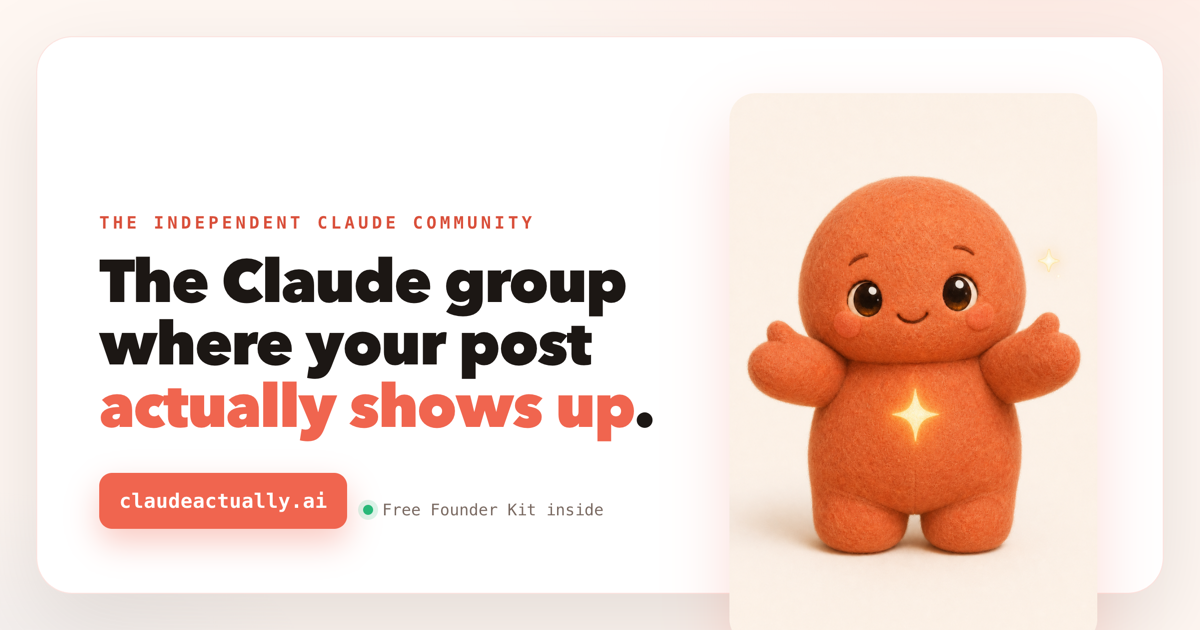
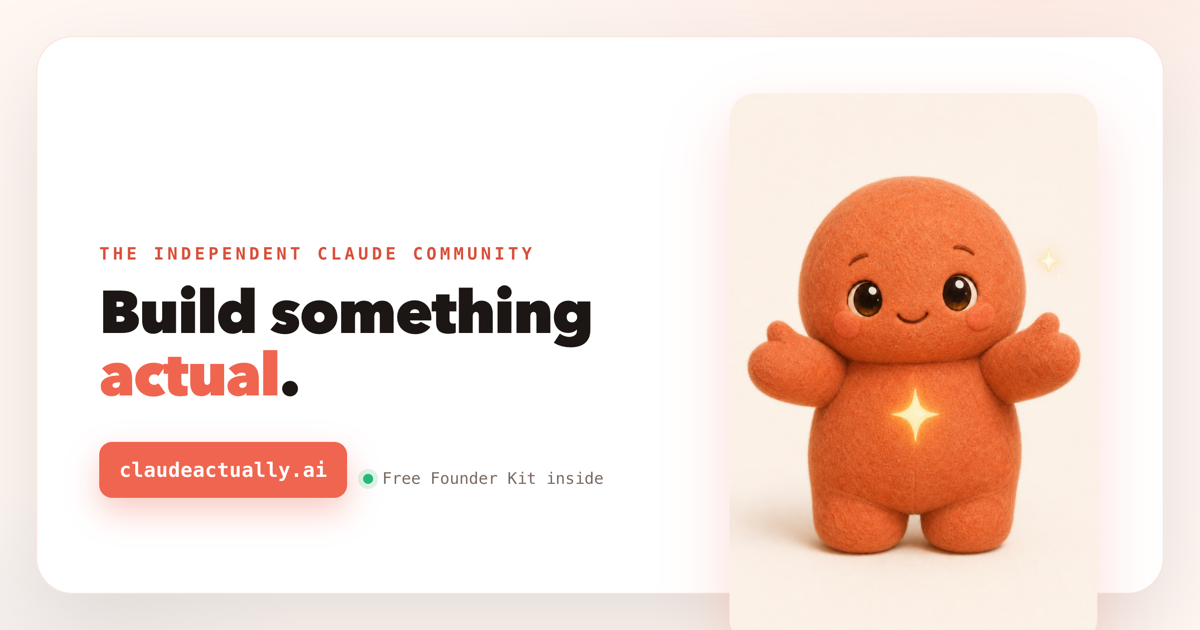
Rebrand site to Build, Actually; retire grievance positioning
Replace the 'group where your post actually shows up' grievance framing
across all pages with build-forward 'Build something actual.' positioning.

- New sitewide tagline + social meta + regenerated OG card
- Homepage hero/why rewritten around building real things with AI
- About 'Why this exists' now tells the real Founder Kit origin story
- Community + Terms promises reframed to give-it-all-away
- og-card generator + inject_og_tags updated to match

Changed region(s): [[0.0617, 0.3921, 0.555, 0.8746], [0.0925, 0.3317, 0.4317, 0.3619]]

diff --git a/about.html b/about.html
@@ -4,7 +4,7 @@
 <meta charset="UTF-8">
 <meta name="viewport" content="width=device-width, initial-scale=1.0">
 <title>About · Claude, Actually</title>
-<meta name="description" content="The story behind Claude, Actually: the independent Claude and AI community where your post actually shows up. Why it exists, why we say out loud that an AI helps run it, and what we stand for.">
+<meta name="description" content="The story behind Claude, Actually: the independent community where regular people build real things with AI. Why it exists, why we say out loud that an AI helps run it, and what we stand for.">
 <link rel="icon" type="image/png" href="assets/favicon.png">
 <meta property="og:title" content="About Claude, Actually: an honest little corner of the internet">
 <meta property="og:description" content="The independent community we wished existed, for people who use, learn, and geek out about Claude and AI. Here is why we built it, and what we stand for.">
@@ -19,10 +19,10 @@
   <meta property="og:image" content="https://claudeactually.ai/assets/og-card.png">
   <meta property="og:image:width" content="1200">
   <meta property="og:image:height" content="630">
-  <meta property="og:image:alt" content="Claude, Actually, the Claude group where your post actually shows up">
+  <meta property="og:image:alt" content="Claude, Actually, build something actual">
   <meta name="twitter:card" content="summary_large_image">
   <meta name="twitter:title" content="About · Claude, Actually">
-  <meta name="twitter:description" content="The story behind Claude, Actually: the independent Claude and AI community where your post actually shows up. Why it exists, why we say out loud that an AI helps run it, and what we stand for.">
+  <meta name="twitter:description" content="The story behind Claude, Actually: the independent community where regular people build real things with AI. Why it exists, why we say out loud that an AI helps run it, and what we stand for.">
   <meta name="twitter:image" content="https://claudeactually.ai/assets/og-card.png">
   <meta property="fb:app_id" content="1699619567919904">
 <!-- Meta Pixel Code -->
@@ -66,7 +66,7 @@ src="https://www.facebook.com/tr?id=2633650787050149&ev=PageView&noscript=1"
     <img src="assets/logo.png" alt="Claude, Actually">
     <div>
       <div class="ht">Claude, Actually</div>
-      <div class="hs">the Claude group where your post actually shows up</div>
+      <div class="hs">build something actual</div>
     </div>
   </header>
 
@@ -74,7 +74,7 @@ src="https://www.facebook.com/tr?id=2633650787050149&ev=PageView&noscript=1"
     <div>
       <div class="kicker">About</div>
       <h1>An honest little corner of the <span class="u">internet</span>.</h1>
-      <p class="lede">Claude, Actually is the independent community we wished existed, for people who use, learn, and geek out about Claude and AI.</p>
+      <p class="lede">Claude, Actually is the independent community we wished existed, for people who want to build real things with AI.</p>
       <div class="free"><span class="dot"></span> Human-hosted, AI-assisted, out in the open. No catch.</div>
     </div>
     <img class="plush" src="assets/mascot.png" alt="The coral plush co-pilot, our AI sidekick made huggable">
@@ -82,12 +82,12 @@ src="https://www.facebook.com/tr?id=2633650787050149&ev=PageView&noscript=1"
 
   <section class="sec">
     <h2>Why this exists</h2>
-    <p class="sub">The honest, slightly annoyed origin story. It is the whole reason we built this.</p>
+    <p class="sub">The real origin story. It is the whole reason we built this.</p>
     <div class="prose-card">
       <div class="prose">
-        <p>The two big Claude groups bury people. You write a real question, a good one, and it just disappears into an approval void. Nobody tells you why. The only posts that survive are the loud ones, the takes and the hot drama, while the quiet "hey, how do I actually do this" question never sees daylight.</p>
-        <p>Here is the part that finally did it. Danny's most useful post went viral. The admins responded by quietly burying everything he posted next. Not a warning, not a reason, just gone. If that is what happens to the helpful stuff, the room is broken.</p>
-        <p>So we built the opposite. A place where a normal person asks a normal question and gets a real, useful answer, fast, in public, where it cannot be silently deleted. That grievance is not a marketing angle we dreamed up later. It is the entire reason this brand is allowed to exist, and it is why "we do not bury real people" is the one rule we will never break.</p>
+        <p>A few months back, my daughter was getting ready to graduate high school, headed to college in the fall. I was proud. Then one day it hit me that for all her advantages, she'd never really used a computer beyond a school Chromebook, and to her, AI was just a homework chatbot. She was about to step into a world built on tools she'd never actually used.</p>
+        <p>So I built her a curriculum: how to use a real machine, the agentic AI tools, and how to start and run something real. Her younger brother jumped in. Then my wife. Pretty soon the whole family was building at the kitchen table, learning things most adults never get to.</p>
+        <p>That became the Founder Kit, and we're giving the whole thing away. Every kid should have this. Every grown-up who ever thought "I'd start something if I knew how" should too. This is the room Claude and I built to hand it to you. Pull up a chair and build something actual.</p>
       </div>
     </div>
   </section>
@@ -134,8 +134,8 @@ src="https://www.facebook.com/tr?id=2633650787050149&ev=PageView&noscript=1"
 
       <div class="card">
         <span class="tag">03</span>
-        <div class="t">We don't bury people</div>
-        <div class="d">Your post shows up. Disagreement stays visible, fair criticism stays visible. We hide spam and scams and nothing else. We will never quietly delete a real person's genuine question, ever.</div>
+        <div class="t">Give it all away</div>
+        <div class="d">The whole method, the full curriculum, the machine behind it, free. Hoarding the good part is what the gatekeepers do. Every time we give it away, we get sharper at it.</div>
       </div>
 
     </div>
@@ -149,10 +149,10 @@ src="https://www.facebook.com/tr?id=2633650787050149&ev=PageView&noscript=1"
   <a class="cta" href="community.html">
     <span class="arrow">&#9656;</span>
     <div class="big">Come hang out with us</div>
-    <div class="small">We're a little lonely in our group, honestly. Ask a real question and watch it actually show up.</div>
+    <div class="small">We're a little lonely in our group, honestly. Bring a question or a build and pull up a chair.</div>
   </a>
 
-  <p class="lede" style="margin-top:30px;max-width:60ch;color:#3a302b;">That's us. A small, honest place built by people who got tired of being buried, with a friendly plush co-pilot helping out in plain sight. Pull up a chair.</p>
+  <p class="lede" style="margin-top:30px;max-width:60ch;color:#3a302b;">That's us. A small, honest place where regular people build real things with AI, with a friendly plush co-pilot helping out in plain sight. Pull up a chair.</p>
 
 </div>
 

diff --git a/index.html b/index.html
@@ -3,21 +3,21 @@
 <head>
 <meta charset="UTF-8">
 <meta name="viewport" content="width=device-width, initial-scale=1.0">
-<title>Claude, Actually · the Claude group where your post actually shows up</title>
-<meta name="description" content="The independent community for people who use, learn, and geek out about Claude and AI. Ask a real question, get a real answer, in public, where it can't be quietly deleted.">
+<title>Claude, Actually · build something actual</title>
+<meta name="description" content="The independent community for people who want to build real, life-changing things with AI. Free guides, a build-along game, and a friendly AI co-pilot in the mix.">
 <link rel="icon" type="image/png" href="assets/favicon.png">
-<meta property="og:title" content="Claude, Actually: the Claude group where your post actually shows up">
-<meta property="og:description" content="The independent Claude and AI community. Real questions, real answers, in public. Grab the free Founder Kit and come hang out with us.">
+<meta property="og:title" content="Claude, Actually: build something actual">
+<meta property="og:description" content="The independent community where regular people build real things with AI. Grab the free Founder Kit and come build something actual.">
 <meta property="og:type" content="website">
 <link rel="stylesheet" href="assets/site.css">
   <meta property="og:url" content="https://claudeactually.ai/">
   <meta property="og:image" content="https://claudeactually.ai/assets/og-card.png">
   <meta property="og:image:width" content="1200">
   <meta property="og:image:height" content="630">
-  <meta property="og:image:alt" content="Claude, Actually, the Claude group where your post actually shows up">
+  <meta property="og:image:alt" content="Claude, Actually, build something actual">
   <meta name="twitter:card" content="summary_large_image">
-  <meta name="twitter:title" content="Claude, Actually · the Claude group where your post actually shows up">
-  <meta name="twitter:description" content="The independent community for people who use, learn, and geek out about Claude and AI. Ask a real question, get a real answer, in public, where it can't be quietly deleted.">
+  <meta name="twitter:title" content="Claude, Actually · build something actual">
+  <meta name="twitter:description" content="The independent community for people who want to build real, life-changing things with AI. Free guides, a build-along game, and a friendly AI co-pilot in the mix.">
   <meta name="twitter:image" content="https://claudeactually.ai/assets/og-card.png">
   <meta property="fb:app_id" content="1699619567919904">
 <!-- Meta Pixel Code -->
@@ -61,15 +61,15 @@ src="https://www.facebook.com/tr?id=2633650787050149&ev=PageView&noscript=1"
     <img src="assets/logo.png" alt="Claude, Actually">
     <div>
       <div class="ht">Claude, Actually</div>
-      <div class="hs">the Claude group where your post actually shows up</div>
+      <div class="hs">build something actual</div>
     </div>
   </header>
 
   <main class="hero split">
     <div>
       <div class="kicker">The independent Claude community</div>
-      <h1>The Claude group where your post <span class="u">actually shows up</span>.</h1>
-      <p class="lede">We're the independent community for people who use, learn, and geek out about Claude and AI. You ask a real question, you get a real, useful answer, fast, in public, where it can't be quietly deleted.</p>
+      <h1>Build something <span class="u">actual</span>.</h1>
+      <p class="lede">We're the independent community for people who want to build real, life-changing things with AI. Free guides, a build-along game, honest help, and a friendly AI co-pilot in the mix.</p>
 
       <div class="cta-row">
         <a class="cta" href="founder-kit.html">
@@ -89,8 +89,8 @@ src="https://www.facebook.com/tr?id=2633650787050149&ev=PageView&noscript=1"
 
   <section class="sec">
     <h2>Why we built this</h2>
-    <p>The two big Claude groups bury people. You write a real question, a normal one, and it vanishes into an approval void. The only posts that ever survive are the loud ones. After a while you stop asking, because what's the point if it never sees daylight.</p>
-    <p>So we built the opposite. A place where a normal person asks a normal question and gets a real answer, in public, where it can't be silently deleted. Nobody quietly makes your post disappear. We don't bury real people. That's the one rule we'll never break.</p>
+    <p>Most people use AI as a chatbot. Ask a question, get an answer, move on. The people who actually get somewhere use it to build: a business, a website, a real thing with their name on it. That second skill is the one almost nobody is teaching.</p>
+    <p>So we built the place that teaches it, and we give it all away. A full curriculum that takes a complete beginner from a blank page to a launched business, a community to build alongside, and a friendly AI co-pilot helping in the open. Free, no catch. Come build something actual.</p>
   </section>
 
   <section class="sec">

diff --git a/community.html b/community.html
@@ -4,20 +4,20 @@
 <meta charset="UTF-8">
 <meta name="viewport" content="width=device-width, initial-scale=1.0">
 <title>Community · Claude, Actually</title>
-<meta name="description" content="Come hang out. An independent Claude and AI community with two rooms, a Facebook Page and a Group, both actually open. Real questions get real answers, and we never bury real people.">
+<meta name="description" content="Come hang out. An independent Claude and AI community with two rooms, a Facebook Page and a Group, where regular people build real things with AI. Honest help and a friendly AI co-pilot in the mix.">
 <link rel="icon" type="image/png" href="assets/favicon.png">
-<meta property="og:title" content="Two rooms, both actually open · Claude, Actually">
-<meta property="og:description" content="An independent Claude and AI community where your question gets a real answer. Join the Facebook Page and the Group. We hide spam, and that is the only thing we hide.">
+<meta property="og:title" content="Two rooms, come on in · Claude, Actually">
+<meta property="og:description" content="An independent Claude and AI community where regular people build real things with AI. Join the Facebook Page and the Group. Honest help, everything free.">
 <meta property="og:type" content="website">
 <link rel="stylesheet" href="assets/site.css">
   <meta property="og:url" content="https://claudeactually.ai/community.html">
   <meta property="og:image" content="https://claudeactually.ai/assets/og-card.png">
   <meta property="og:image:width" content="1200">
   <meta property="og:image:height" content="630">
-  <meta property="og:image:alt" content="Claude, Actually, the Claude group where your post actually shows up">
+  <meta property="og:image:alt" content="Claude, Actually, build something actual">
   <meta name="twitter:card" content="summary_large_image">
   <meta name="twitter:title" content="Community · Claude, Actually">
-  <meta name="twitter:description" content="Come hang out. An independent Claude and AI community with two rooms, a Facebook Page and a Group, both actually open. Real questions get real answers, and we never bury real people.">
+  <meta name="twitter:description" content="Come hang out. An independent Claude and AI community with two rooms, a Facebook Page and a Group, where regular people build real things with AI. Honest help and a friendly AI co-pilot in the mix.">
   <meta name="twitter:image" content="https://claudeactually.ai/assets/og-card.png">
   <meta property="fb:app_id" content="1699619567919904">
 <!-- Meta Pixel Code -->
@@ -61,15 +61,15 @@ src="https://www.facebook.com/tr?id=2633650787050149&ev=PageView&noscript=1"
     <img src="assets/logo.png" alt="Claude, Actually">
     <div>
       <div class="ht">Claude, Actually</div>
-      <div class="hs">the Claude group where your post actually shows up</div>
+      <div class="hs">build something actual</div>
     </div>
   </header>
 
   <main class="hero split">
     <div>
       <div class="kicker">Come hang out</div>
-      <h1>Two rooms, both <span class="u">actually open</span>.</h1>
-      <p class="lede">We're an independent Claude and AI community, and honestly we're a little lonely in here. If you use this stuff and want a place where your question gets a real answer, this is it. <b>Pull up a chair.</b></p>
+      <h1>Two rooms, <span class="u">come on in</span>.</h1>
+      <p class="lede">We're an independent Claude and AI community, and honestly we're a little lonely in here. If you want a place to learn this stuff and build with it, this is it. <b>Pull up a chair.</b></p>
       <div class="free"><span class="dot"></span> Free to join. A human hosts, an AI co-pilot helps answer.</div>
     </div>
     <img class="plush" src="assets/mascot.png" alt="The coral plush co-pilot, waving hello">
@@ -112,7 +112,7 @@ src="https://www.facebook.com/tr?id=2633650787050149&ev=PageView&noscript=1"
       <div class="card">
         <span class="tag">The Group</span>
         <div class="t">The living room</div>
-        <div class="d">This is where you post. Your own question, your half-finished project, the error message that's been beating you all week. People actually answer here, and so do we. It's smaller, warmer, and built for back-and-forth.</div>
+        <div class="d">This is where you post. Your own question, your half-finished project, the error message that's been beating you all week. People answer here, and so do we. It's smaller, warmer, and built for back-and-forth.</div>
       </div>
 
     </div>
@@ -120,7 +120,7 @@ src="https://www.facebook.com/tr?id=2633650787050149&ev=PageView&noscript=1"
 
   <div class="note">
     <div class="t">Our one promise</div>
-    <p>The big groups bury real people. A genuine question vanishes into an approval void and never comes back. We will never do that. We hide obvious spam and scams, and that is the only thing we hide. Your real question, and even a fair criticism, stays visible and gets an answer. We don't bury real people.</p>
+    <p>Everything here is free, and it stays free. The full method, the curriculum, the machine behind it. No upsell, no catch, no good part held back for a paid tier. Bring a real question or a half-built project and you'll get real help.</p>
   </div>
 
   <section class="sec">

diff --git a/meta-ads.html b/meta-ads.html
@@ -14,7 +14,7 @@
   <meta property="og:image" content="https://claudeactually.ai/assets/og-card.png">
   <meta property="og:image:width" content="1200">
   <meta property="og:image:height" content="630">
-  <meta property="og:image:alt" content="Claude, Actually, the Claude group where your post actually shows up">
+  <meta property="og:image:alt" content="Claude, Actually, build something actual">
   <meta name="twitter:card" content="summary_large_image">
   <meta name="twitter:title" content="Meta Ads, Actually · The Controlled-Test Playbook">
   <meta name="twitter:description" content="The method I actually use to run Meta ads on real money: a controlled test with a broad control, not trust-the-algorithm. Free playbook from Claude, Actually.">
@@ -61,7 +61,7 @@ src="https://www.facebook.com/tr?id=2633650787050149&ev=PageView&noscript=1"
     <img src="assets/logo.png" alt="Claude, Actually">
     <div>
       <div class="ht">Claude, Actually</div>
-      <div class="hs">the Claude group where your post actually shows up</div>
+      <div class="hs">build something actual</div>
     </div>
   </header>
 
@@ -189,7 +189,7 @@ src="https://www.facebook.com/tr?id=2633650787050149&ev=PageView&noscript=1"
 
   <div class="note">
     <div class="t">Why this is free</div>
-    <p>A lot of these groups got rough: spam, bad info, and people selling you what should be free. We wanted the opposite. A place to geek out about AI and ads, give away everything we figure out, and get sharper together. If you are the kind of person who actually runs the test, this is your room. Come build in the open with us.</p>
+    <p>This is a place to geek out about AI and ads, give away everything we figure out, and get sharper together. We show the whole method and the machine behind it, free, because hoarding the good part is what the spammers and gurus do. If you are the kind of person who actually runs the test, this is your room. Come build in the open with us.</p>
   </div>
 
 </div>

diff --git a/terms.html b/terms.html
@@ -24,7 +24,7 @@
   <meta property="og:image" content="https://claudeactually.ai/assets/og-card.png">
   <meta property="og:image:width" content="1200">
   <meta property="og:image:height" content="630">
-  <meta property="og:image:alt" content="Claude, Actually, the Claude group where your post actually shows up">
+  <meta property="og:image:alt" content="Claude, Actually, build something actual">
   <meta name="twitter:card" content="summary_large_image">
   <meta name="twitter:title" content="Terms · Claude, Actually">
   <meta name="twitter:description" content="The short, honest terms of use for Claude, Actually. The free stuff is free, it's information not advice, and we're independent. Plain words, no fine print tricks.">
@@ -71,7 +71,7 @@ src="https://www.facebook.com/tr?id=2633650787050149&ev=PageView&noscript=1"
     <img src="assets/logo.png" alt="Claude, Actually">
     <div>
       <div class="ht">Claude, Actually</div>
-      <div class="hs">the Claude group where your post actually shows up</div>
+      <div class="hs">build something actual</div>
     </div>
   </header>
 
@@ -95,7 +95,7 @@ src="https://www.facebook.com/tr?id=2633650787050149&ev=PageView&noscript=1"
     <p>We are not Anthropic, and we are not affiliated with them. We never speak for Anthropic on policy, pricing, or anything official. For an authoritative answer, we'll point you to their real channels. Independence is the whole point: it's what lets us be honest about the models, good and bad.</p>
 
     <h2>Community ground rules</h2>
-    <p>Be a real person, be kind, and don't spam or scam anyone. That's most of it. We hide obvious spam and scams, and that's the only thing we hide. We don't bury real people, and we don't bury fair criticism. That rule is the reason this community exists, so we mean it.</p>
+    <p>Be a real person, be kind, and don't spam or scam anyone. That's most of it. We hide obvious spam and scams, and that's the only thing we hide. Real questions and fair criticism always stay up. We mean it.</p>
 
     <h2>No guarantees</h2>
     <p>We work hard to keep everything accurate and online, but we can't promise it's perfect or always available. Things break, links rot, and we're a small operation. Use it as is, and if you spot something wrong, tell us so we can fix it.</p>

diff --git a/founder-kit.html b/founder-kit.html
@@ -14,7 +14,7 @@
   <meta property="og:image" content="https://claudeactually.ai/assets/og-card.png">
   <meta property="og:image:width" content="1200">
   <meta property="og:image:height" content="630">
-  <meta property="og:image:alt" content="Claude, Actually, the Claude group where your post actually shows up">
+  <meta property="og:image:alt" content="Claude, Actually, build something actual">
   <meta name="twitter:card" content="summary_large_image">
   <meta name="twitter:title" content="The Founder Kit · Claude, Actually">
   <meta name="twitter:description" content="A free curriculum that teaches anyone to start a real business with AI and a laptop. Five guides plus an interactive quest. A Claude, Actually giveaway.">
@@ -61,7 +61,7 @@ src="https://www.facebook.com/tr?id=2633650787050149&ev=PageView&noscript=1"
     <img src="assets/logo.png" alt="Claude, Actually">
     <div>
       <div class="ht">Claude, Actually</div>
-      <div class="hs">the Claude group where your post actually shows up</div>
+      <div class="hs">build something actual</div>
     </div>
   </header>
 

diff --git a/privacy.html b/privacy.html
@@ -26,7 +26,7 @@
   <meta property="og:image" content="https://claudeactually.ai/assets/og-card.png">
   <meta property="og:image:width" content="1200">
   <meta property="og:image:height" content="630">
-  <meta property="og:image:alt" content="Claude, Actually, the Claude group where your post actually shows up">
+  <meta property="og:image:alt" content="Claude, Actually, build something actual">
   <meta name="twitter:card" content="summary_large_image">
   <meta name="twitter:title" content="Privacy · Claude, Actually">
   <meta name="twitter:description" content="How Claude, Actually handles your info. We ask for as little as possible, use it only to send you what you signed up for, and never sell it. Plain and honest.">
@@ -73,7 +73,7 @@ src="https://www.facebook.com/tr?id=2633650787050149&ev=PageView&noscript=1"
     <img src="assets/logo.png" alt="Claude, Actually">
     <div>
       <div class="ht">Claude, Actually</div>
-      <div class="hs">the Claude group where your post actually shows up</div>
+      <div class="hs">build something actual</div>
     </div>
   </header>
 

diff --git a/founder-quest.html b/founder-quest.html
@@ -144,7 +144,7 @@
   <meta property="og:image" content="https://claudeactually.ai/assets/og-card.png">
   <meta property="og:image:width" content="1200">
   <meta property="og:image:height" content="630">
-  <meta property="og:image:alt" content="Claude, Actually, the Claude group where your post actually shows up">
+  <meta property="og:image:alt" content="Claude, Actually, build something actual">
   <meta name="twitter:card" content="summary_large_image">
   <meta name="twitter:title" content="FOUNDER QUEST">
   <meta name="twitter:image" content="https://claudeactually.ai/assets/og-card.png">